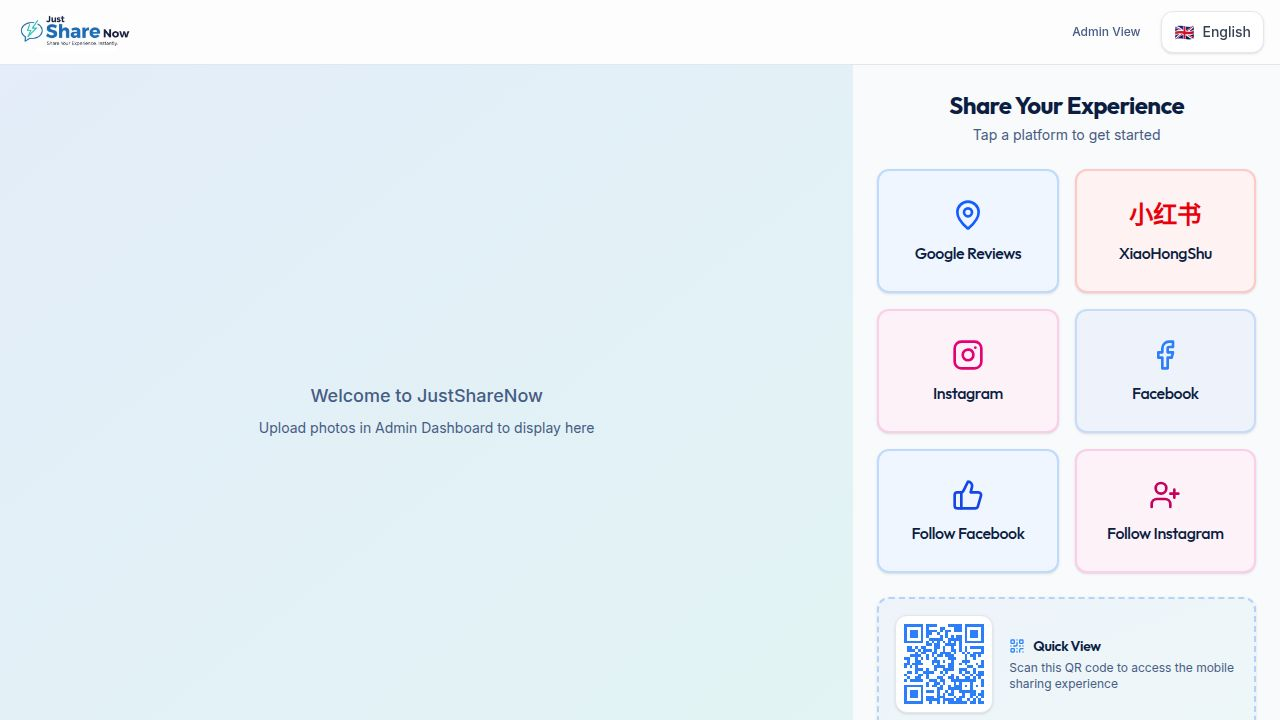
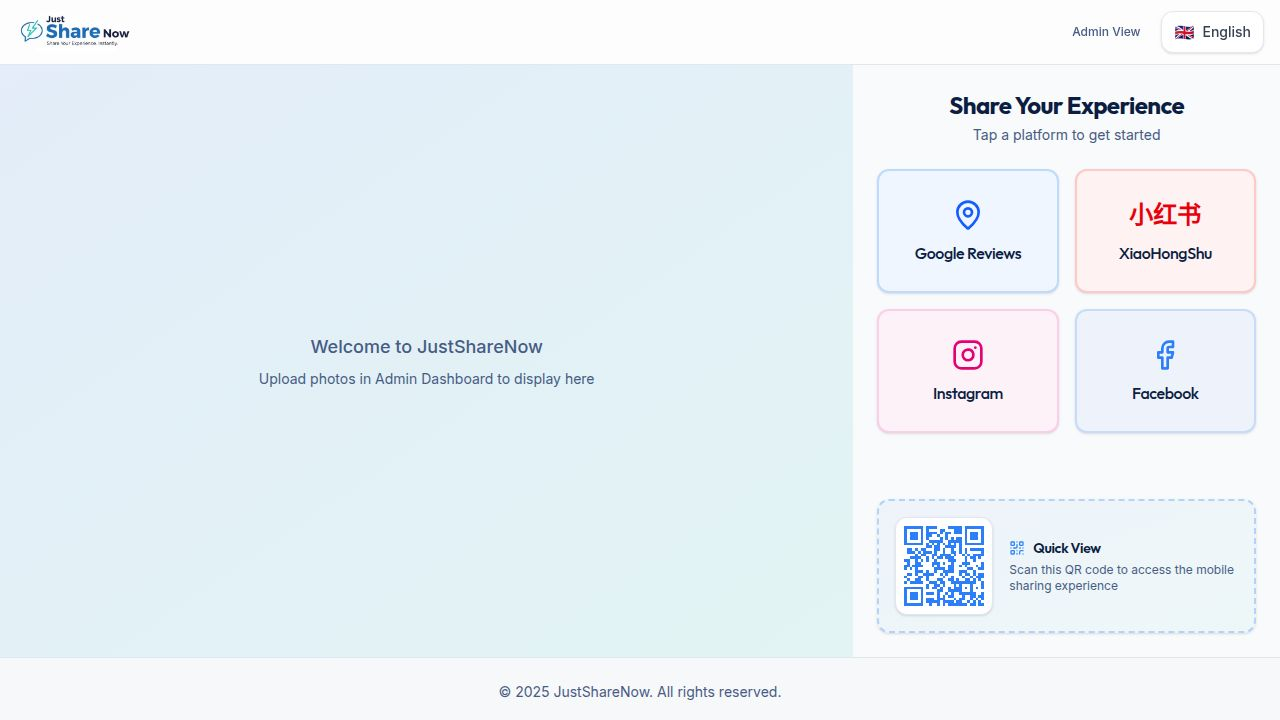
Add a way to share content on XiaoHongShu with a modal
Adds a modal for sharing content on XiaoHongShu, including copy-to-clipboard functionality and deep linking to open the app.

Replit-Commit-Author: Agent
Replit-Commit-Session-Id: 60302850-bbe8-49b4-81db-46422d6b4109
Replit-Commit-Checkpoint-Type: full_checkpoint
Replit-Commit-Event-Id: 39096bac-819f-4adb-902f-a8bbe18c4834
Replit-Commit-Screenshot-Url: https://storage.googleapis.com/screenshot-production-us-central1/f17441a7-0dcc-4ae7-a5c9-07e6c4035f11/60302850-bbe8-49b4-81db-46422d6b4109/564lAaA

diff --git a/client/src/pages/landing.tsx b/client/src/pages/landing.tsx
@@ -5,7 +5,8 @@ import { Card, CardContent } from "@/components/ui/card";
 import { Button } from "@/components/ui/button";
 import { Dialog, DialogContent, DialogTitle } from "@/components/ui/dialog";
 import { motion } from "framer-motion";
-import { Facebook, Instagram, MapPin, ThumbsUp, UserPlus, QrCode, Building2, ExternalLink } from "lucide-react";
+import { Facebook, Instagram, MapPin, ThumbsUp, UserPlus, QrCode, Building2, ExternalLink, Copy, Check } from "lucide-react";
+import { toast } from "sonner";
 import { useQuery } from "@tanstack/react-query";
 import { getStoreConfig, trackPlatformClick } from "@/lib/api";
 import { QRCodeSVG } from "qrcode.react";
@@ -77,6 +78,8 @@ export default function Landing({ embedded = false }: { embedded?: boolean }) {
   const [quickViewUrl, setQuickViewUrl] = useState("");
   const [followFbModalOpen, setFollowFbModalOpen] = useState(false);
   const [followIgModalOpen, setFollowIgModalOpen] = useState(false);
+  const [xhsModalOpen, setXhsModalOpen] = useState(false);
+  const [xhsCopied, setXhsCopied] = useState(false);
 
   useEffect(() => {
     setQuickViewUrl(`${window.location.origin}/quick-view`);
@@ -111,8 +114,55 @@ export default function Landing({ embedded = false }: { embedded?: boolean }) {
       setFollowIgModalOpen(true);
       return;
     }
+    if (platformId === 'xiaohongshu') {
+      setXhsModalOpen(true);
+      setXhsCopied(false);
+      return;
+    }
     setSelectedPlatform(platformId);
     setLocation('/drafting');
+  };
+
+  const openXiaohongshu = (profileUrl?: string) => {
+    const userAgent = navigator.userAgent.toLowerCase();
+    const isIOS = /iphone|ipad|ipod/.test(userAgent);
+    const isAndroid = /android/.test(userAgent);
+    
+    if (isIOS) {
+      window.location.href = "xhsdiscover://";
+      setTimeout(() => {
+        window.open("https://apps.apple.com/app/id741292507", "_blank");
+      }, 2000);
+    } else if (isAndroid) {
+      window.location.href = "intent://#Intent;scheme=xhsdiscover;package=com.xingin.xhs;end";
+      setTimeout(() => {
+        window.open("https://play.google.com/store/apps/details?id=com.xingin.xhs", "_blank");
+      }, 2000);
+    } else {
+      window.open(profileUrl || "https://www.xiaohongshu.com", "_blank");
+    }
+  };
+
+  const getXhsContent = () => {
+    const businessName = config?.businessName || "this place";
+    const hashtags = config?.reviewHashtags?.slice(0, 5).map(tag => `#${tag}`).join(' ') || '';
+    return `Just visited ${businessName}! Amazing experience! ${hashtags}`.trim();
+  };
+
+  const handleXhsCopyAndOpen = async () => {
+    const content = getXhsContent();
+    try {
+      await navigator.clipboard.writeText(content);
+      setXhsCopied(true);
+      toast.success(t.customer.platform?.copied || "Copied to clipboard!");
+      await trackPlatformClick('xiaohongshu');
+      setTimeout(() => {
+        openXiaohongshu(config?.xiaohongshuUrl || undefined);
+        setXhsModalOpen(false);
+      }, 500);
+    } catch (err) {
+      toast.error("Failed to copy");
+    }
   };
 
   const handleFollowFacebook = async () => {
@@ -346,6 +396,49 @@ export default function Landing({ embedded = false }: { embedded?: boolean }) {
             </div>
           </DialogContent>
         </Dialog>
+        
+        {/* XiaoHongShu Modal */}
+        <Dialog open={xhsModalOpen} onOpenChange={setXhsModalOpen}>
+          <DialogContent className="max-w-sm mx-auto">
+            <DialogTitle className="sr-only">Share on XiaoHongShu</DialogTitle>
+            <div className="flex flex-col items-center text-center p-4 space-y-6">
+              <div className="w-16 h-16 rounded-full bg-red-500 flex items-center justify-center">
+                <span className="text-xl font-bold text-white">小红书</span>
+              </div>
+              
+              <div className="space-y-1">
+                <h3 className="text-xl font-bold text-foreground">
+                  {t.customer.platform?.shareOnXhs || "Share on XiaoHongShu"}
+                </h3>
+                <p className="text-sm text-muted-foreground">
+                  {t.customer.platform?.xhsSubtitle || "Share your experience on XiaoHongShu!"}
+                </p>
+              </div>
+              
+              <div className="w-full p-3 bg-muted/50 rounded-lg text-left">
+                <p className="text-sm text-foreground whitespace-pre-wrap">{getXhsContent()}</p>
+              </div>
+              
+              <Button 
+                onClick={handleXhsCopyAndOpen}
+                className="w-full h-12 bg-red-500 hover:bg-red-600 text-white text-base font-medium"
+                data-testid="button-xhs-copy-open"
+              >
+                {xhsCopied ? (
+                  <>
+                    <Check className="mr-2 h-4 w-4" />
+                    {t.customer.platform?.copied || "Copied!"}
+                  </>
+                ) : (
+                  <>
+                    <Copy className="mr-2 h-4 w-4" />
+                    {t.customer.platform?.copyAndOpen || "Copy & Open XiaoHongShu"}
+                  </>
+                )}
+              </Button>
+            </div>
+          </DialogContent>
+        </Dialog>
       </>
     );
   }
@@ -431,6 +524,49 @@ export default function Landing({ embedded = false }: { embedded?: boolean }) {
             >
               <ExternalLink className="mr-2 h-4 w-4" />
               {t.customer.platform?.followOnInstagram || "Follow on Instagram"}
+            </Button>
+          </div>
+        </DialogContent>
+      </Dialog>
+      
+      {/* XiaoHongShu Modal */}
+      <Dialog open={xhsModalOpen} onOpenChange={setXhsModalOpen}>
+        <DialogContent className="max-w-sm mx-auto">
+          <DialogTitle className="sr-only">Share on XiaoHongShu</DialogTitle>
+          <div className="flex flex-col items-center text-center p-4 space-y-6">
+            <div className="w-16 h-16 rounded-full bg-red-500 flex items-center justify-center">
+              <span className="text-xl font-bold text-white">小红书</span>
+            </div>
+            
+            <div className="space-y-1">
+              <h3 className="text-xl font-bold text-foreground">
+                {t.customer.platform?.shareOnXhs || "Share on XiaoHongShu"}
+              </h3>
+              <p className="text-sm text-muted-foreground">
+                {t.customer.platform?.xhsSubtitle || "Share your experience on XiaoHongShu!"}
+              </p>
+            </div>
+            
+            <div className="w-full p-3 bg-muted/50 rounded-lg text-left">
+              <p className="text-sm text-foreground whitespace-pre-wrap">{getXhsContent()}</p>
+            </div>
+            
+            <Button 
+              onClick={handleXhsCopyAndOpen}
+              className="w-full h-12 bg-red-500 hover:bg-red-600 text-white text-base font-medium"
+              data-testid="button-xhs-copy-open"
+            >
+              {xhsCopied ? (
+                <>
+                  <Check className="mr-2 h-4 w-4" />
+                  {t.customer.platform?.copied || "Copied!"}
+                </>
+              ) : (
+                <>
+                  <Copy className="mr-2 h-4 w-4" />
+                  {t.customer.platform?.copyAndOpen || "Copy & Open XiaoHongShu"}
+                </>
+              )}
             </Button>
           </div>
         </DialogContent>
